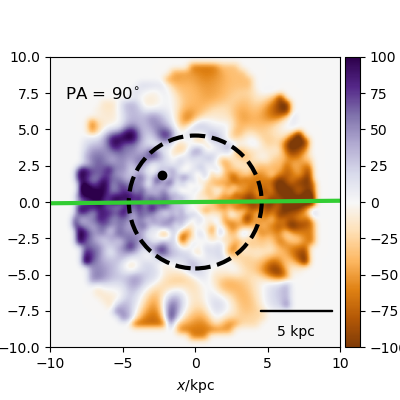
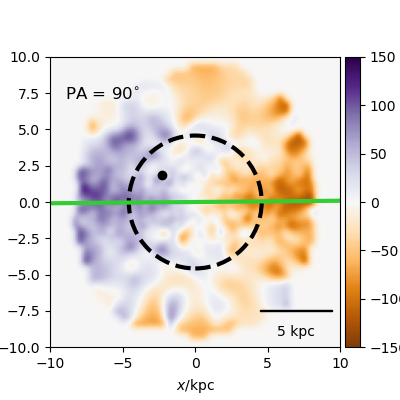
Ray stellar velocity

diff --git a/r142/galaxy142_StelVelR.py b/r142/galaxy142_StelVelR.py
@@ -11,7 +11,7 @@ filename='/mnt/data0/jillian/gguaman/r142/r142.007779.tipsy'
 redshift=0.01
 image_width=20
 
-stellar_map, stellar_pa, ax = plot_manga_map(filename, redshift, "star", weights="mass", image_width=image_width, orientation="sideon", cmap='PuOr', vmin=-100, vmax=100)
+stellar_map, stellar_pa, ax = plot_manga_map(filename, redshift, "star", weights="mass", image_width=image_width, orientation="sideon", cmap='PuOr', vmin=-150, vmax=150)
 
 #plt.show()
 plt.savefig("galaxy142_StelVelR.png")
